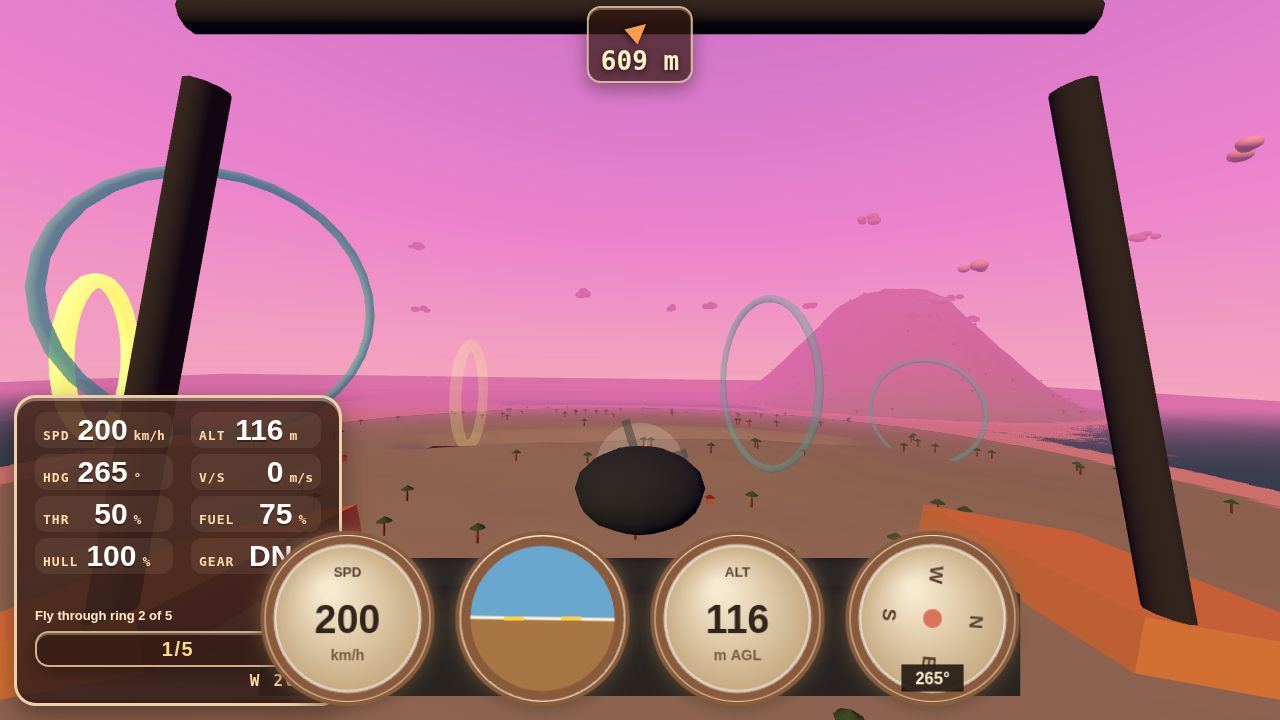
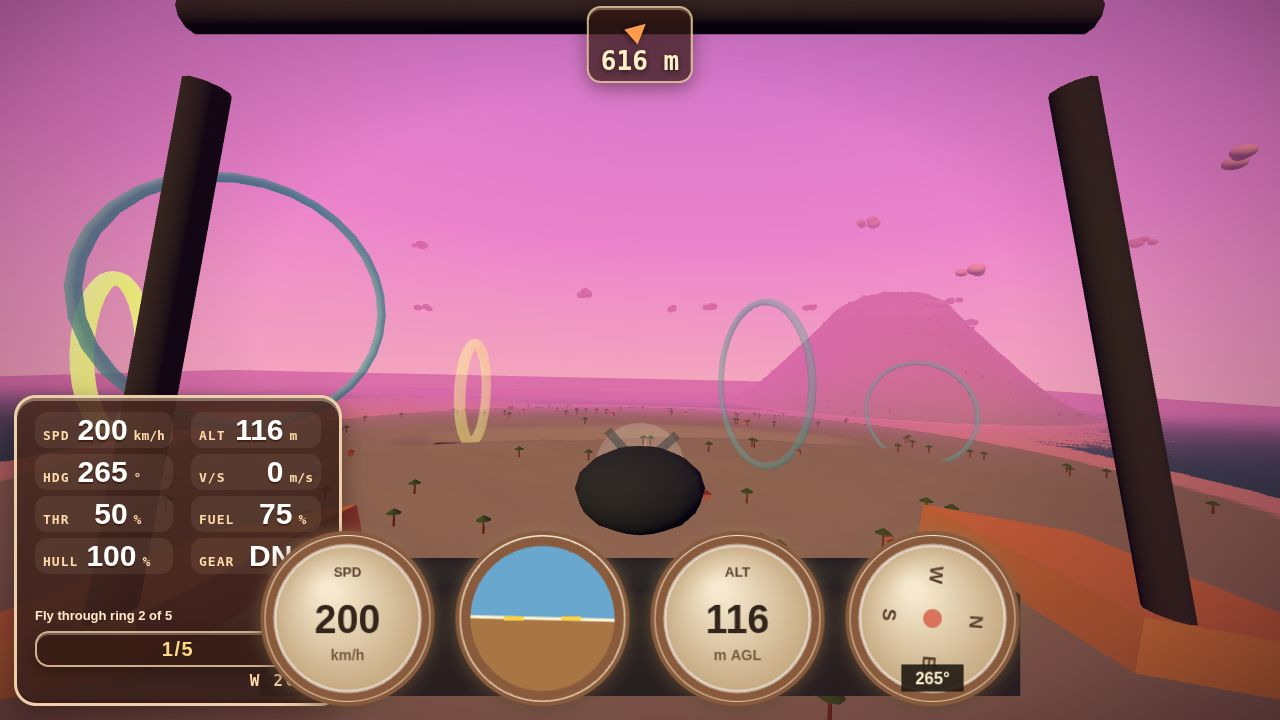
CP7 step 6: CSS vignette over canvas, HUD layers above it; clay look slice complete

diff --git a/game/styles.css b/game/styles.css
@@ -277,3 +277,19 @@ body.cockpit #instruments {
   box-shadow: 0 18px 48px rgba(20, 6, 12, 0.55), inset 0 4px 0 rgba(255, 240, 214, 0.3);
   background: linear-gradient(155deg, rgba(86, 44, 66, 0.96), rgba(48, 26, 40, 0.96));
 }
+
+/* Soft stop-motion vignette over the canvas, below every HUD overlay. */
+#vignette {
+  position: fixed;
+  inset: 0;
+  pointer-events: none;
+  user-select: none;
+  z-index: 2;
+  background: radial-gradient(ellipse at 50% 45%, rgba(20, 6, 22, 0) 42%, rgba(38, 8, 32, 0.28) 78%, rgba(24, 4, 22, 0.52) 100%);
+}
+#hud {
+  z-index: 5;
+}
+#controls-hint {
+  z-index: 8;
+}

diff --git a/game/index.html b/game/index.html
@@ -8,6 +8,7 @@
 </head>
 <body>
 <canvas id="game" tabindex="0" aria-label="Clay Wings: fly a plasticine propeller plane around a sunset archipelago"></canvas>
+<div id="vignette" aria-hidden="true"></div>
 <p id="status" role="status" aria-live="polite"></p>
 <script type="importmap">
 { "imports": { "three": "./vendor/three.module.min.js" } }
